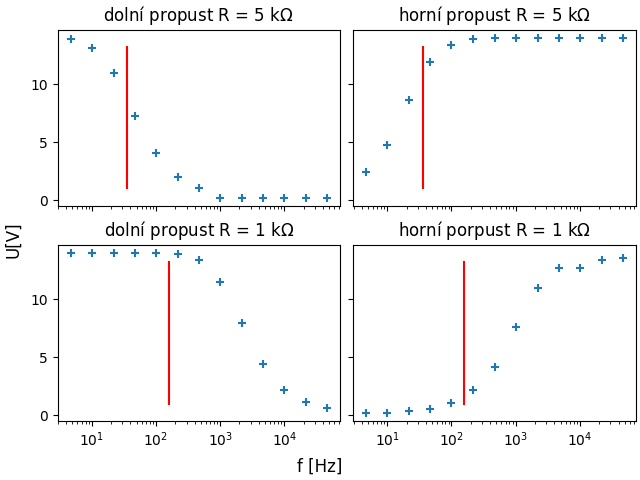
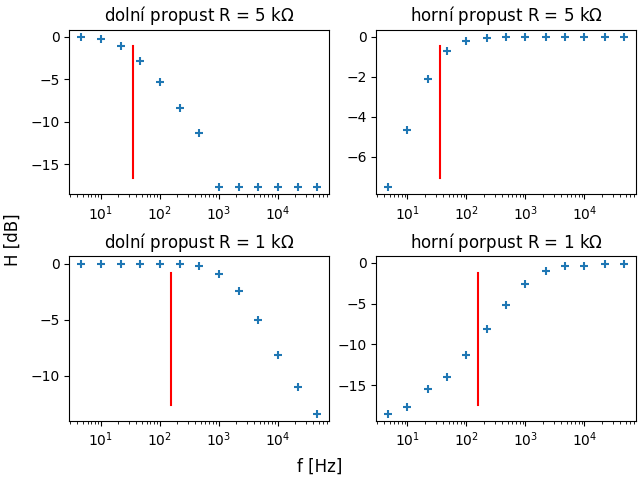
propuste oprava plotovani
zesileni misto absoltni hodnoty napeti

diff --git a/propust/ploter.py b/propust/ploter.py
@@ -1,14 +1,20 @@
 import pandas as pd
 import matplotlib.pyplot as plt
+import numpy as np
 
 freq = [4.70, 10, 22, 47, 100, 220, 470, 1000, 2200, 4700, 10000, 22000, 47000]
 dol_R2 = [14, 14, 14, 14, 14, 13.92, 13.36, 11.44, 7.92, 4.4, 2.16, 1.12, 0.640]
 hor_R2 = [0.200, 0.240, 0.400, 0.560, 1.04, 2.16, 4.2, 7.6, 11, 12.72, 12.64, 13.36, 13.52]
 dol_R1 = [13.84, 13.12, 10.96, 7.28, 4.08, 2, 1.04, 0.240, 0.240, 0.240, 0.240, 0.240, 0.240]
 hor_R1 = [2.48, 4.8, 8.64, 11.92, 13.36, 13.84, 14, 14, 14, 14, 14, 14, 14]
-
-figure, axis = plt.subplots(2, 2, layout="constrained", sharex=True, sharey=True)
-figure.supylabel('U[V]')
+max_voltage = 14
+for i in range(len(dol_R2)):
+    dol_R2[i] = 10*np.log10(dol_R2[i]/max_voltage)
+    hor_R2[i] = 10*np.log10(hor_R2[i]/max_voltage)
+    dol_R1[i] = 10*np.log10(dol_R1[i]/max_voltage)
+    hor_R1[i] = 10*np.log10(hor_R1[i]/max_voltage)
+figure, axis = plt.subplots(2, 2, layout="constrained")
+figure.supylabel('H [dB]')
 figure.supxlabel('f [Hz]')
 
  
